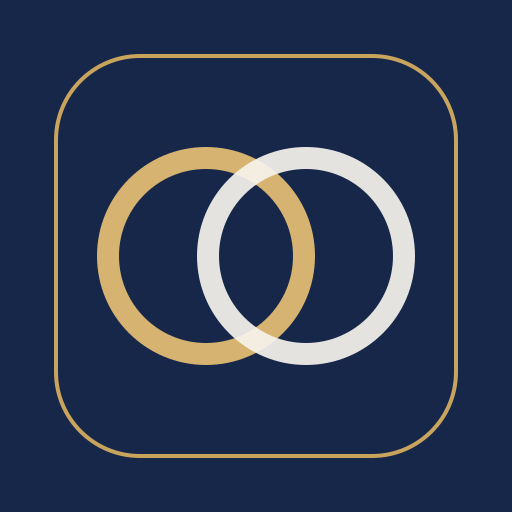
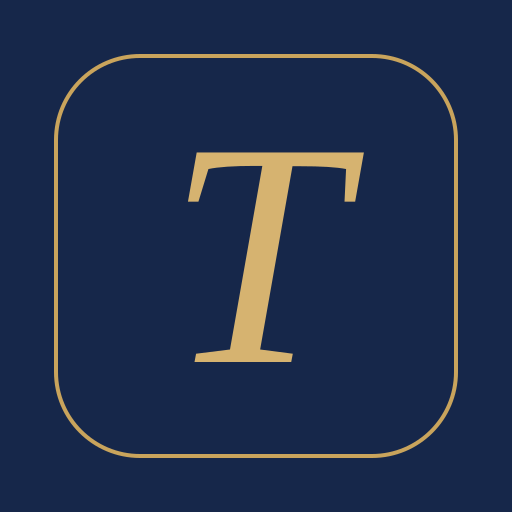
Renomeia para Tricount, ícone T, Victória
Claude-Session: https://claude.ai/code/session_01Wqw64AV1JqfbWFfhujy7DL

Changed region(s): [[0.1875, 0.2812, 0.8125, 0.7188]]

diff --git a/public/index.html b/public/index.html
@@ -3,10 +3,10 @@
 <head>
 <meta charset="utf-8">
 <meta name="viewport" content="width=device-width, initial-scale=1, viewport-fit=cover">
-<title>Racha SG</title>
+<title>Tricount</title>
 <meta name="apple-mobile-web-app-capable" content="yes">
 <meta name="mobile-web-app-capable" content="yes">
-<meta name="apple-mobile-web-app-title" content="Racha">
+<meta name="apple-mobile-web-app-title" content="Tricount">
 <meta name="apple-mobile-web-app-status-bar-style" content="default">
 <meta name="theme-color" content="#F6F3EC" media="(prefers-color-scheme: light)">
 <meta name="theme-color" content="#0B1220" media="(prefers-color-scheme: dark)">
@@ -26,7 +26,7 @@ button,input,select{font:inherit;color:inherit}
 .top .t{flex:1;min-width:0}.top small{display:block;color:var(--muted);font-size:13px}
 .top h1{margin:0;font-size:22px;font-weight:800;white-space:nowrap;overflow:hidden;text-overflow:ellipsis}
 .mono{width:44px;height:44px;flex:none;border-radius:12px;background:#16274A;border:1px solid var(--gold);display:flex;align-items:center;justify-content:center;font-family:'Cormorant Garamond',serif;font-style:italic;font-weight:600;font-size:22px;letter-spacing:-5px;color:#D6B370}
-.mono b{color:#F6F3EC;font-weight:600}
+.mono b{color:#F6F3EC;font-weight:600}.mono{letter-spacing:0}
 .icon-btn{width:44px;height:44px;flex:none;border-radius:22px;border:1px solid var(--border);background:var(--card);display:flex;align-items:center;justify-content:center;cursor:pointer}
 .txt-btn{border:1px solid var(--border);background:var(--card);border-radius:22px;padding:10px 14px;font-weight:700;font-size:14px;cursor:pointer}
 .hero{background:var(--hero);color:#fff;border-radius:22px;padding:20px;display:flex;flex-direction:column;gap:12px}
@@ -99,7 +99,7 @@ async function api(path,method='GET',data){
 async function carregar(){try{S=await api('state');render()}catch(e){}}
 
 /* ---------- login ---------- */
-function telaLogin(){$('#layer').innerHTML='';$('#app').innerHTML=`<div class="login"><div class="mono">S<b>G</b></div><b style="font-size:20px">Racha</b>
+function telaLogin(){$('#layer').innerHTML='';$('#app').innerHTML=`<div class="login"><div class="mono">T</div><b style="font-size:20px">Tricount</b>
 <input id="pin" type="password" inputmode="numeric" autocomplete="current-password" placeholder="PIN"><div class="err" id="err"></div><button class="btn" onclick="entrar()">Entrar</button></div>`;
   $('#pin').onkeydown=e=>e.key==='Enter'&&entrar();setTimeout(()=>$('#pin').focus(),50)}
 async function entrar(){try{await api('login','POST',{pin:$('#pin').value});carregar()}catch(e){$('#err').textContent=e.message}}
@@ -124,7 +124,7 @@ function telaInicio(){
   const ativos=S.grupos.filter(g=>!g.arquivado),arq=S.grupos.filter(g=>g.arquivado);
   const geral=frase(saldo(S.despesas));
   const linha=g=>{const l=despesasDe(g.id),f=frase(saldo(l));return `<div class="item" onclick="abrir('${g.id}')"><div class="g"><b>${esc(g.nome)}</b><span>${f.v?f.txt.replace(/<\/?em>/g,''):'Tudo acertado'}</span></div><div class="v">${brl(gastoTotal(l))}<small>${l.length} despesa${l.length==1?'':'s'}</small></div></div>`};
-  $('#app').innerHTML=`<div class="top"><div class="mono">S<b>G</b></div><div class="t"><small>${esc(A())} & ${esc(B())}</small><h1>Racha</h1></div><button class="icon-btn" onclick="ajustes()" aria-label="Ajustes">⚙</button></div>
+  $('#app').innerHTML=`<div class="top"><div class="mono">T</div><div class="t"><small>${esc(A())} & ${esc(B())}</small><h1>Tricount</h1></div><button class="icon-btn" onclick="ajustes()" aria-label="Ajustes">⚙</button></div>
   <div class="hero"><div class="lbl">Saldo geral</div><div class="big">${geral.txt}</div></div>
   ${ativos.length?`<div class="list">${ativos.map(linha).join('')}</div>`:'<div class="empty">Nenhum grupo ainda.<br>Crie um, tipo “Casa” ou “Viagem LA”.</div>'}
   ${arq.length?`<div class="day">Arquivados</div><div class="list">${arq.map(linha).join('')}</div>`:''}

diff --git a/server.js b/server.js
@@ -1,24 +1,24 @@
-// Racha SG — dividir despesas a dois (sem dependências externas)
-// Uso: RACHA_PIN=1234 PORT=3099 RACHA_DATA=~/racha-data node server.js
+// Tricount — dividir despesas a dois (sem dependências externas)
+// Uso: TRICOUNT_PIN=1234 PORT=3099 TRICOUNT_DATA=~/racha-data node server.js
 const http = require('http');
 const fs = require('fs');
 const path = require('path');
 const crypto = require('crypto');
 
 const PORT = Number(process.env.PORT || 3099);
-const PIN = String(process.env.RACHA_PIN || '');
-const DATA_DIR = process.env.RACHA_DATA || path.join(__dirname, 'data');
-const DATA_FILE = path.join(DATA_DIR, 'racha.json');
+const PIN = String(process.env.TRICOUNT_PIN || '');
+const DATA_DIR = process.env.TRICOUNT_DATA || path.join(__dirname, 'data');
+const DATA_FILE = path.join(DATA_DIR, 'tricount.json');
 const PUBLIC = path.join(__dirname, 'public');
 
-if (!PIN) { console.error('Defina RACHA_PIN (ex.: RACHA_PIN=123456 node server.js)'); process.exit(1); }
+if (!PIN) { console.error('Defina TRICOUNT_PIN (ex.: TRICOUNT_PIN=123456 node server.js)'); process.exit(1); }
 fs.mkdirSync(DATA_DIR, { recursive: true });
 
 const SECRET_FILE = path.join(DATA_DIR, '.secret');
 if (!fs.existsSync(SECRET_FILE)) fs.writeFileSync(SECRET_FILE, crypto.randomBytes(32).toString('hex'), { mode: 0o600 });
 const SECRET = fs.readFileSync(SECRET_FILE, 'utf8').trim();
 
-const EMPTY = { pessoas: ['Sophia', 'Namorada'], grupos: [], despesas: [] };
+const EMPTY = { pessoas: ['Sophia', 'Victória'], grupos: [], despesas: [] };
 function load() {
   try { return Object.assign(structuredClone(EMPTY), JSON.parse(fs.readFileSync(DATA_FILE, 'utf8'))); }
   catch { return structuredClone(EMPTY); }
@@ -98,12 +98,12 @@ const server = http.createServer(async (req, res) => {
       const b = await body(req);
       if (String(b.pin || '') !== PIN) { fail(ip); return send(res, 401, { erro: 'PIN incorreto' }); }
       fails.delete(ip);
-      return send(res, 200, { ok: true }, { 'Set-Cookie': `racha=${makeToken()}; Path=/; HttpOnly; Secure; SameSite=Lax; Max-Age=${60 * 60 * 24 * 90}` });
+      return send(res, 200, { ok: true }, { 'Set-Cookie': `tricount=${makeToken()}; Path=/; HttpOnly; Secure; SameSite=Lax; Max-Age=${60 * 60 * 24 * 90}` });
     }
-    if (p === '/api/logout') return send(res, 200, { ok: true }, { 'Set-Cookie': 'racha=; Path=/; Max-Age=0' });
+    if (p === '/api/logout') return send(res, 200, { ok: true }, { 'Set-Cookie': 'tricount=; Path=/; Max-Age=0' });
 
     if (p.startsWith('/api/')) {
-      if (!validToken(cookie(req, 'racha'))) return send(res, 401, { erro: 'login' });
+      if (!validToken(cookie(req, 'tricount'))) return send(res, 401, { erro: 'login' });
       const db = load();
       const [, coll, rid] = p.split('/').filter(Boolean);
       const ok = () => { save(db); send(res, 200, db); };
@@ -146,4 +146,4 @@ const server = http.createServer(async (req, res) => {
     fs.createReadStream(f).pipe(res);
   } catch (e) { console.error(e); send(res, 500, { erro: 'Erro no servidor' }); }
 });
-server.listen(PORT, () => console.log(`Racha SG rodando na porta ${PORT}`));
+server.listen(PORT, () => console.log(`Tricount rodando na porta ${PORT}`));
